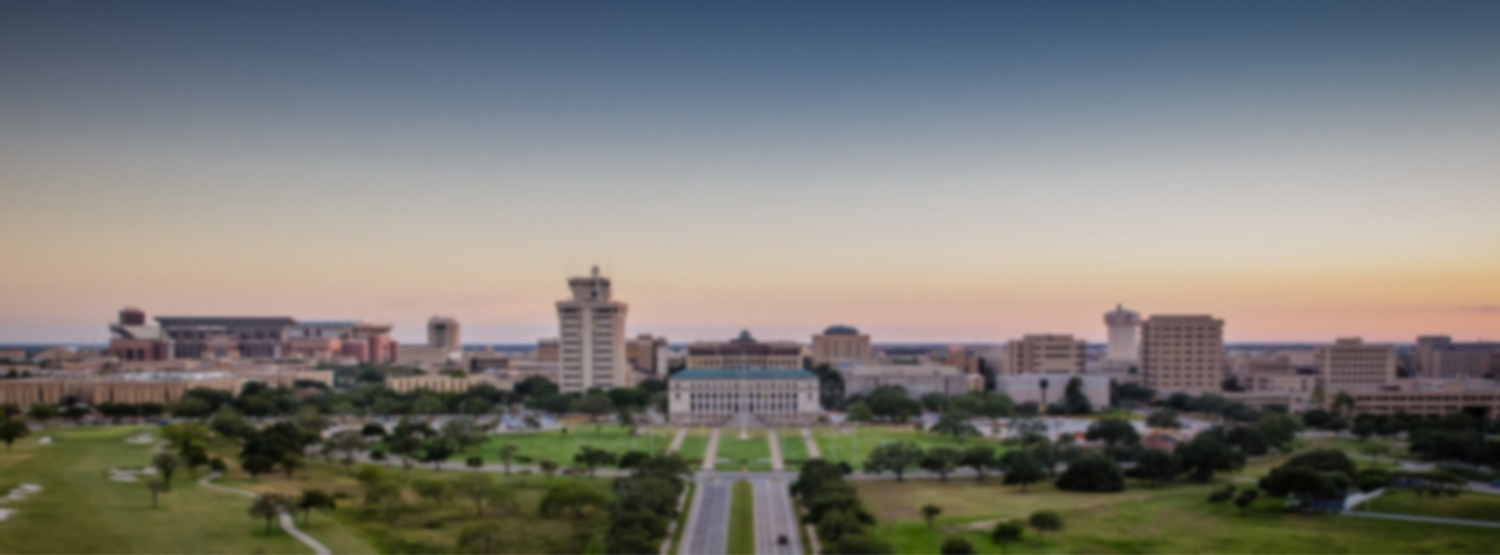
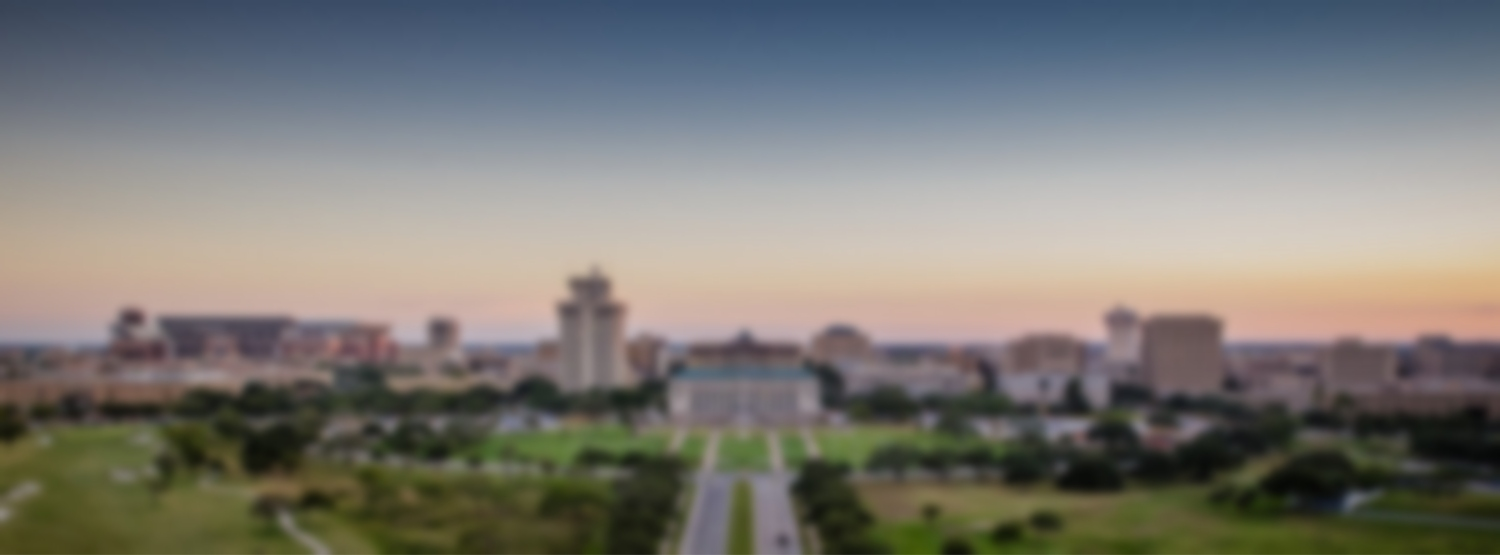
More landing page tweaks

diff --git a/styles/style.css b/styles/style.css
@@ -31,8 +31,8 @@ h5 {
 }
 
 .navbar {
-  background: transparent;
   text-transform: uppercase;
+  background-image: linear-gradient(#3a424fbf, #3a424f80, #3a424f05);
 }
 
 .nav-item {
@@ -55,12 +55,12 @@ h5 {
 }
 
 .navbar.scrolled {
-  background-image: linear-gradient(#3a424fbf, #3a424f80, #3a424f05);
+  background-image: linear-gradient(#3a424fbf, #3a424f80, #3a424f00);
 }
 
 #intro {
   height: 100vh;
-  background: url("../img/acad_build_blur.jpg") no-repeat center center fixed;
+  background: url("../img/zeec_blur.jpg") no-repeat center center fixed;
   -webkit-background-size: cover;
   -moz-background-size: cover;
   -o-background-size: cover;
@@ -68,7 +68,7 @@ h5 {
 }
 
 .title {
-  text-shadow: 1px 1px #000;
+  text-shadow: 0px 3px rgba(0, 0, 0, 0.509);
 }
 
 #who-we-are {
@@ -104,11 +104,11 @@ h5 {
 
 @media (max-width: 768px) {
   .navbar:not(.top-nav-collapse) {
-    background-color: #2f4872;
+    background-image: linear-gradient(#3a424fbf, #3a424f80, #3a424f00);
   }
 }
 @media (min-width: 800px) and (max-width: 850px) {
   .navbar:not(.top-nav-collapse) {
-    background-color: #2f4872;
+    background-image: linear-gradient(#3a424fbf, #3a424f80, #3a424f00);
   }
 }

diff --git a/index.html b/index.html
@@ -52,7 +52,7 @@
     <main>
         <section class="intro-section container-fluid p-5" id="intro">
             <div class="row justify-content-center align-items-center h-100">
-                <div class="title col-9 text-center animated fadeInDown slow">
+                <div class="title col-9 text-center animated fadeInDownBig slow">
                     <h2 class="display-4 font-weight-bold white-text pt-5 text-uppercase main-title">Aggie Club of Engineers</h2>
                     <hr class="border-white">
                     <h2 class="font-weight-bold text-uppercase sub-title">Texas A&M University</h2>
